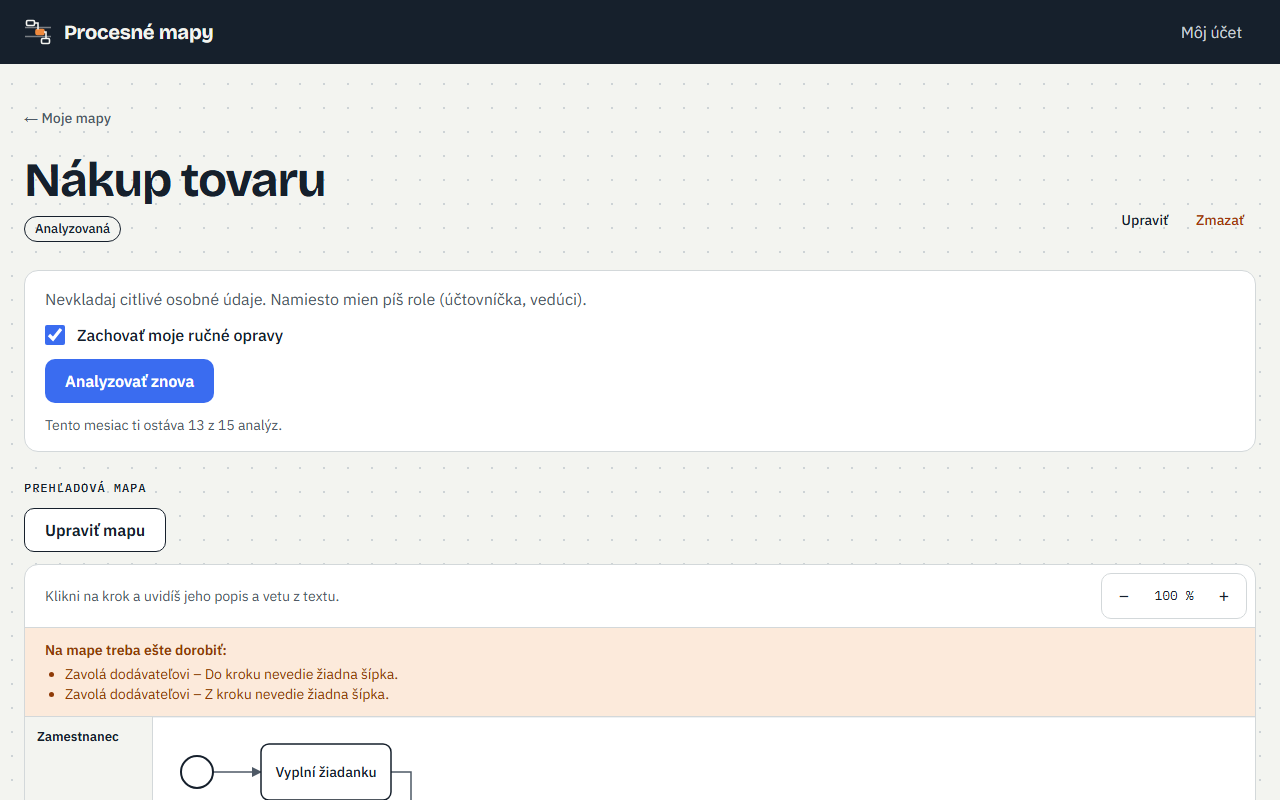
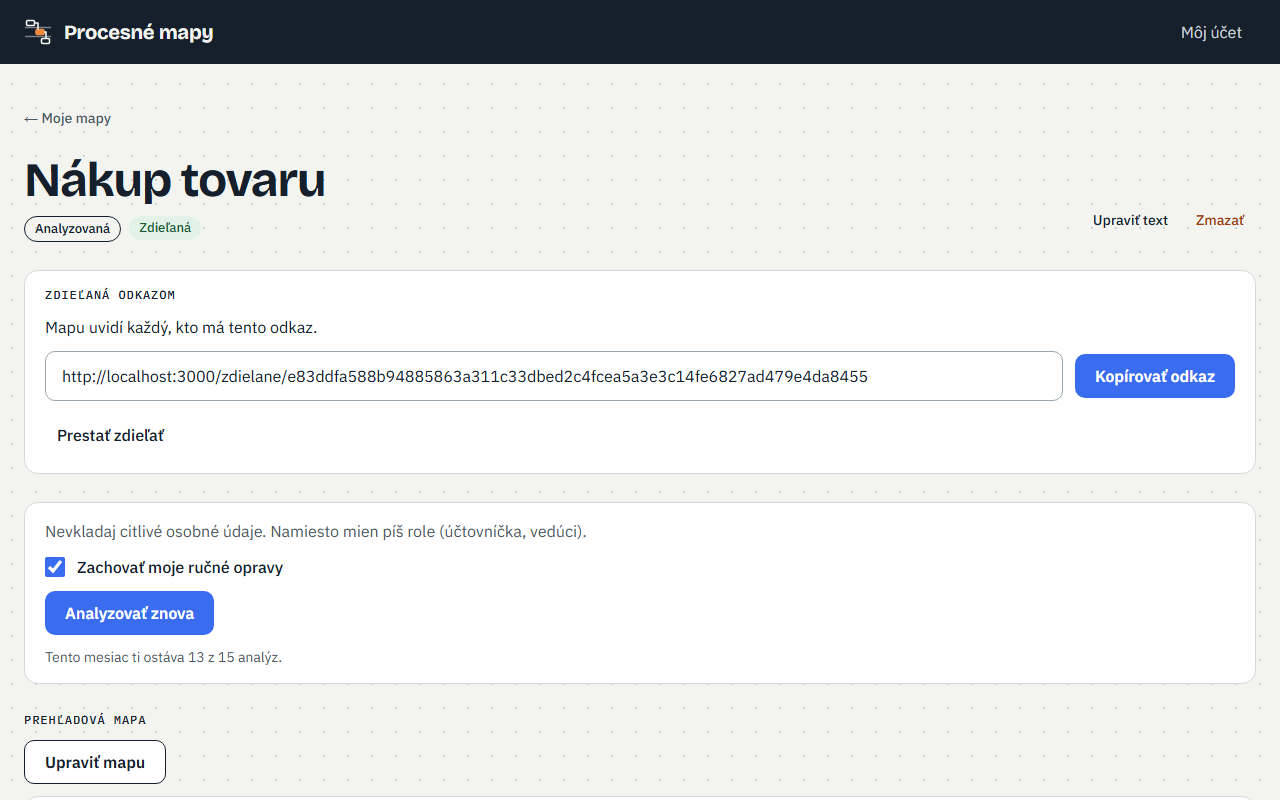
Dokumentácia podľa stavu z 2026-10-19.

diff --git a/index.md b/index.md
@@ -4,11 +4,11 @@ title: "Procesné mapy: čo appka zatiaľ vie"
 
 # Procesné mapy: čo appka zatiaľ vie
 
-Stav k 19. 10. 2026 o 17:45.
+Stav k 19. 10. 2026 o 18:49.
 
-Procesné mapy je webová aplikácia, ktorá z popisu procesu urobí procesnú mapu. Dnes vie z vloženého textu nakresliť prehľadovú mapu s krokmi rozdelenými podľa rolí, ktorýkoľvek krok rozpísať na detailnú mapu a mapu ručne opraviť. Je zadarmo, s limitom 15 analýz mesačne na účet.
+Procesné mapy je webová aplikácia, ktorá z popisu procesu urobí procesnú mapu. Dnes vie z vloženého textu nakresliť prehľadovú mapu s krokmi rozdelenými podľa rolí, ktorýkoľvek krok rozpísať na detailnú mapu a mapu ručne opraviť. Hotovú mapu môžeš poslať odkazom niekomu, kto nemá účet. Je zadarmo, s limitom 15 analýz mesačne na účet.
 
-Prihlasuje sa odkazom v e-maile, bez hesla. Každý vidí len svoje mapy.
+Prihlasuje sa odkazom v e-maile, bez hesla. Každý vidí len svoje mapy, kým ich sám nezdieľa odkazom.
 
 ## Prihlásenie a môj účet
 
@@ -31,7 +31,7 @@ Nová mapa vzniká z textu, ktorý vložíš alebo napíšeš. Môže to byť aj
 
 - Text má 30 až 30 000 znakov, počítadlo pod poľom ukazuje, koľko sa ešte zmestí. Pole sa prispôsobí oknu a potiahnutím za roh sa dá zväčšiť.
 - Názov je nepovinný, najviac 30 znakov. Bez názvu mapu pomenuje AI pri analýze.
-- Zoznam „Moje mapy“ ukazuje názov, dátum, čas a stav každej mapy, najnovšie hore. Kým nemáš žiadnu mapu, stránka ukáže znudené oranžové rozhodnutie a tlačidlo „Dať mu prácu“, ktoré vedie na novú mapu.
+- Zoznam „Moje mapy“ ukazuje názov, dátum, čas a stav každej mapy, najnovšie hore. Kým nemáš žiadnu mapu, stránka ukáže znudené oranžové rozhodnutie a tlačidlo „Dať mu prácu“, ktoré vedie na novú mapu. Tlačidlo „Upraviť“ pri mape otvorí jej detail a až tam si vyberieš, či chceš upraviť text mapy, alebo samotnú mapu.
 - Text aj názov sa dajú kedykoľvek upraviť.
 - Mapu môžeš natrvalo zmazať aj s textom, po potvrdení.
 - Jeden účet môže mať najviac 200 máp.
@@ -130,14 +130,40 @@ Keď je platná verzia ručne upravená, pri „Analyzovať znova“ je zaškrtn
 
 ![Analyzovať znova: zaškrtnuté „Zachovať moje ručné opravy“ nad mapou, v ktorej je ručne pridaný krok](obrazky/zachovat-opravy.png)
 
+## Zdieľanie mapy odkazom
+
+Analyzovanú mapu môžeš ukázať niekomu, kto nemá účet a nemusí si ho zakladať. Pošle sa jej zdieľaný odkaz, ktorý si skopíruješ a pošleš, kam chceš, napríklad e-mailom či správou. Aplikácia nič neposiela sama.
+
+- Pri analyzovanej mape je tlačidlo „Zdieľať“. Rozpracovaná mapa, ktorá ešte nemá analýzu, ho nemá.
+- Po zapnutí uvidíš odkaz, vetu „Mapu uvidí každý, kto má tento odkaz.“ a tlačidlo „Kopírovať odkaz“. Mapa je na svojej stránke označená ako „Zdieľaná“.
+- Mapa má najviac jeden odkaz. Keď „Zdieľať“ zapneš znova, ukáže sa ten istý.
+- „Prestať zdieľať“ odkaz hneď zruší, bez potvrdenia. Keď zdieľanie zapneš znova, vznikne nový odkaz a starý ostane mŕtvy.
+- Zmazanie mapy aj zrušenie účtu odkaz zrušia samy.
+
+![Zdieľanie mapy: odkaz, veta o tom, kto mapu uvidí, a tlačidlá „Kopírovať odkaz“ a „Prestať zdieľať“](obrazky/zdielanie.png)
+
+### Čo vidí ten, komu odkaz pošleš
+
+Odkaz otvorí ktokoľvek bez prihlásenia, aj na mobile. Vidí názov mapy a prehľadovú mapu, po kliknutí na krok jeho popis a pri rozpísanom kroku „Zobraziť detail“ s detailnou mapou a cestou späť. Všetko je len na čítanie.
+
+- Nevidí text, z ktorého mapa vznikla, vety z textu, značky „Pridané ručne“ a „Upravené ručne“, upozornenie „Krok sa zmenil“, zoznam verzií ani tvoj e-mail.
+- Nemá tlačidlá na úpravu, analýzu ani rozpísanie, takže nič nezmení a nič ťa nestojí z limitov.
+- Odkaz ukazuje vždy platnú verziu. Po ručnej úprave, novej analýze či návrate k staršej verzii ho netreba posielať nový.
+- Kto odkaz dostal, môže ho poslať ďalej, preto ho posielaj len tým, ktorým mapu chceš ukázať.
+- Odkaz je dlhý a náhodný a stránka nemá byť vo vyhľadávačoch. Aplikácia si nezapisuje, kto a kedy odkaz otvoril.
+- Odkaz, ktorý už neplatí, aj vymyslený odkaz ukážu tú istú stránku „Tento odkaz už neplatí alebo nikdy neexistoval“, takže z nej nikto nezistí, či mapa existovala.
+
+![Zdieľaná mapa očami príjemcu: názov, prehľadová mapa a vybraný krok s tlačidlom „Zobraziť detail“](obrazky/zdielana-mapa.png)
+
+![Detailná mapa kroku očami príjemcu, len na čítanie, s odkazom späť na prehľadovú mapu](obrazky/zdielany-detail.png)
+
 ## Čo zatiaľ nevie a čo príde ďalej
 
 Dnes appka berie len vložený text. V tomto poradí prídu:
 
-1. Posielanie mapy odkazom niekomu inému.
-2. Nahratie dokumentu (Word, PDF…) ako vstupu.
-3. Nahratie záznamu alebo prepisu stretnutia.
-4. Spojenie viacerých vstupov do jednej mapy.
-5. Export mapy ako obrázok alebo PDF.
+1. Nahratie dokumentu (Word, PDF…) ako vstupu.
+2. Nahratie záznamu alebo prepisu stretnutia.
+3. Spojenie viacerých vstupov do jednej mapy.
+4. Export mapy ako obrázok alebo PDF.
 
 Neskoršie, mimo tohto zoznamu: platby, prihlásenie cez Microsoft či Google a spoločné priestory pre kolegov z jednej firmy.
